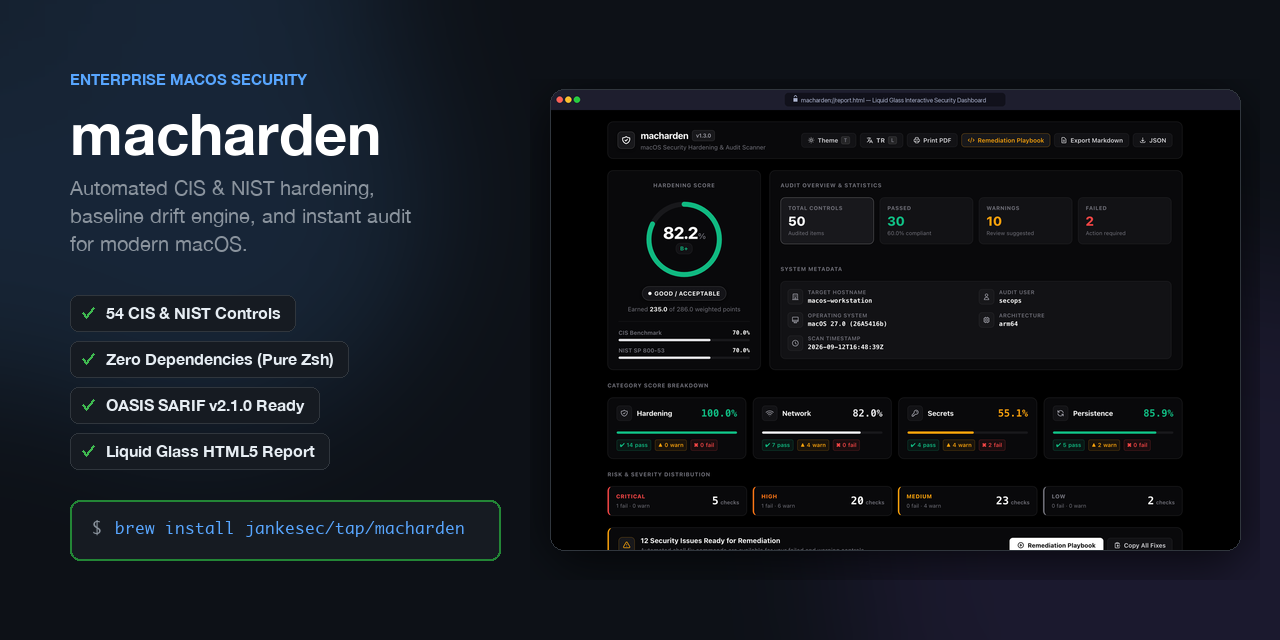
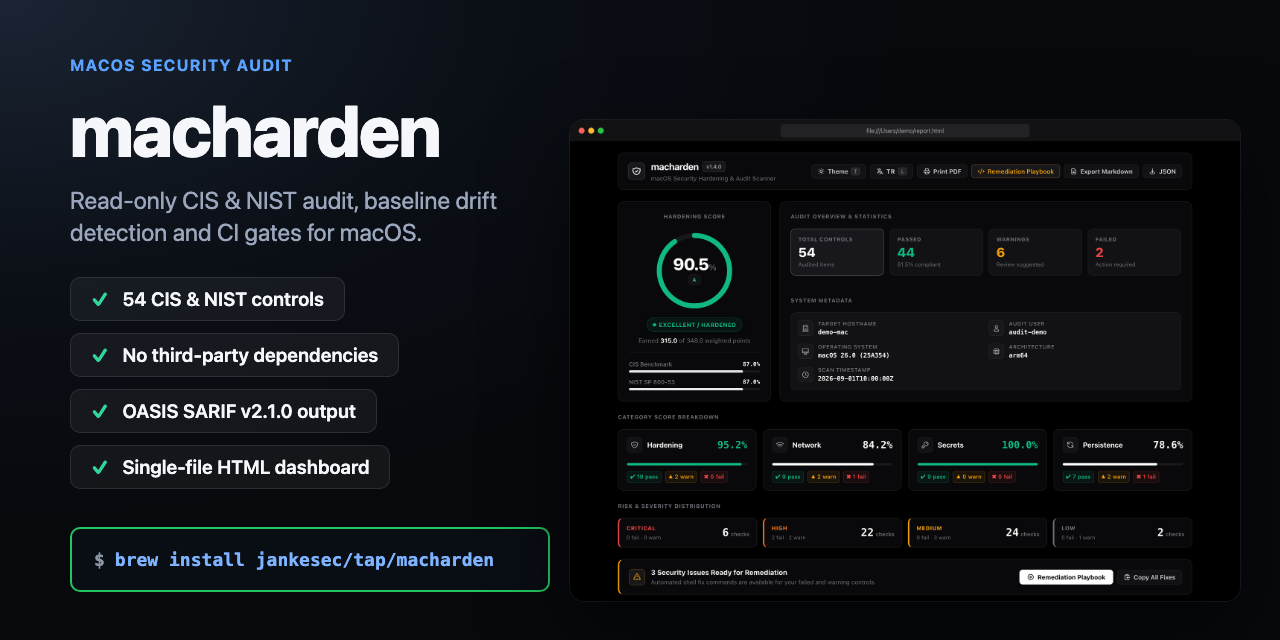
docs: regenerate the demo GIF, dashboard image and social card from one data set
dashboard.png and social-preview.png still showed v1.3.0 with 50 controls and the dashboard
screenshot was clipped. generate_static_assets.py now renders both from the same synthetic
fixture as the GIF (v1.4.0, 54 controls, one score), and the social card is an HTML template
instead of an untracked one-off. `make demo` regenerates all three assets. The card says
"No third-party dependencies" because the HTML, SARIF and --diff paths use the system
Python 3 standard library.

The GitHub social preview does not follow this file: upload assets/social-preview.png again
under Settings -> Social preview.

diff --git a/scripts/social_preview.html b/scripts/social_preview.html
@@ -1,0 +1,57 @@
+<!doctype html>
+<!-- Social preview card (1280x640), rendered by scripts/generate_static_assets.py.
+     It embeds assets/dashboard.png, so regenerate both together with `make demo`. -->
+<html lang="en">
+<head>
+<meta charset="utf-8">
+<title>macharden social preview</title>
+<style>
+  * { box-sizing: border-box; margin: 0; padding: 0; }
+  html, body { width: 1280px; height: 640px; overflow: hidden; }
+  body {
+    position: relative;
+    color: #f5f7fb;
+    font-family: -apple-system, BlinkMacSystemFont, "SF Pro Display", "Helvetica Neue", Arial, sans-serif;
+    background: radial-gradient(900px 520px at 0% 0%, #1a2433 0%, #0b0f16 55%, #07090d 100%);
+  }
+  .left { position: absolute; left: 70px; top: 56px; width: 470px; }
+  .eyebrow { font-size: 16px; font-weight: 700; letter-spacing: .08em; text-transform: uppercase; color: #5aa2ff; }
+  h1 { margin-top: 20px; font-size: 72px; line-height: 1; font-weight: 800; letter-spacing: -0.02em; }
+  .lede { margin-top: 18px; font-size: 24px; line-height: 1.35; color: #9aa6bb; }
+  ul { margin-top: 28px; display: grid; gap: 12px; justify-items: start; list-style: none; }
+  li {
+    display: inline-flex; align-items: center; gap: 14px;
+    padding: 10px 20px; border-radius: 10px;
+    font-size: 19px; font-weight: 600;
+    background: rgba(255, 255, 255, .05); border: 1px solid rgba(255, 255, 255, .10);
+  }
+  li::before { content: "\2713"; color: #34d399; font-weight: 800; }
+  .cmd {
+    position: absolute; left: 70px; bottom: 48px; width: 480px; padding: 20px 22px; border-radius: 10px; white-space: nowrap;
+    background: #090d14; border: 2px solid #22c55e;
+    font: 600 18px ui-monospace, "SF Mono", Menlo, monospace; color: #7db3ff;
+  }
+  .cmd span { margin-right: 10px; color: #8b95a7; }
+  .shot {
+    position: absolute; left: 570px; top: 120px; width: 670px; overflow: hidden; border-radius: 14px;
+    box-shadow: 0 30px 80px rgba(0, 0, 0, .55), 0 0 0 1px rgba(255, 255, 255, .08);
+  }
+  .shot img { display: block; width: 100%; }
+</style>
+</head>
+<body>
+  <div class="left">
+    <div class="eyebrow">macOS security audit</div>
+    <h1>macharden</h1>
+    <p class="lede">Read-only CIS &amp; NIST audit, baseline drift detection and CI gates for macOS.</p>
+    <ul>
+      <li>54 CIS &amp; NIST controls</li>
+      <li>No third-party dependencies</li>
+      <li>OASIS SARIF v2.1.0 output</li>
+      <li>Single-file HTML dashboard</li>
+    </ul>
+  </div>
+  <div class="cmd"><span>$</span>brew install jankesec/tap/macharden</div>
+  <div class="shot"><img src="../assets/dashboard.png" alt=""></div>
+</body>
+</html>

diff --git a/scripts/generate_static_assets.py b/scripts/generate_static_assets.py
@@ -1,0 +1,50 @@
+#!/usr/bin/env python3
+"""Regenerate assets/dashboard.png and assets/social-preview.png from the synthetic fixture.
+
+The dashboard screenshot is wrapped in a browser window; the social preview card
+(scripts/social_preview.html, 1280x640) embeds that screenshot. Requirements: Google Chrome
+(or CHROME_BIN) and Pillow. Run it through `make demo`, which also refreshes the GIF.
+"""
+
+import os
+import tempfile
+
+from PIL import Image
+
+from demo_lib import ADDRESS, REPO_ROOT, browser_frame, chrome_binary, make_dashboard_html, screenshot
+
+DASHBOARD_PNG = os.path.join(REPO_ROOT, "assets", "dashboard.png")
+SOCIAL_PNG = os.path.join(REPO_ROOT, "assets", "social-preview.png")
+SOCIAL_TEMPLATE = os.path.join(REPO_ROOT, "scripts", "social_preview.html")
+WINDOW_W, WINDOW_H = 1400, 960  # CSS pixels; the page ends right after the remediation banner
+SCALE = 2
+OUT_W = 1800
+MAX_BYTES = 600_000
+
+
+def save_png(image, path):
+    """Save an optimized PNG; fall back to a 256-color palette when the file is too large."""
+    rgb = image.convert("RGB")
+    rgb.save(path, optimize=True)
+    if os.path.getsize(path) > MAX_BYTES:
+        rgb.quantize(colors=256, method=Image.Quantize.MEDIANCUT,
+                     dither=Image.Dither.FLOYDSTEINBERG).save(path, optimize=True)
+
+
+def main():
+    chrome = chrome_binary()
+    with tempfile.TemporaryDirectory(prefix="macharden-static-") as workdir:
+        html_path = make_dashboard_html(workdir)
+        raw = screenshot(chrome, html_path, os.path.join(workdir, "dashboard_raw.png"), WINDOW_W, WINDOW_H,
+                         script="window.scrollTo(0,0);", scale=SCALE)
+        framed = browser_frame(raw, ADDRESS, "dark", None, SCALE)
+        framed = framed.resize((OUT_W, round(framed.height * OUT_W / framed.width)), Image.Resampling.LANCZOS)
+        save_png(framed, DASHBOARD_PNG)  # the social card embeds this file, so it is written first
+        card = screenshot(chrome, SOCIAL_TEMPLATE, os.path.join(workdir, "social_raw.png"), 1280, 640)
+        save_png(Image.open(card), SOCIAL_PNG)
+    for path in (DASHBOARD_PNG, SOCIAL_PNG):
+        print(f"wrote {os.path.relpath(path, REPO_ROOT)} ({os.path.getsize(path) / 1024:.0f} KB)")
+
+
+if __name__ == "__main__":
+    main()
